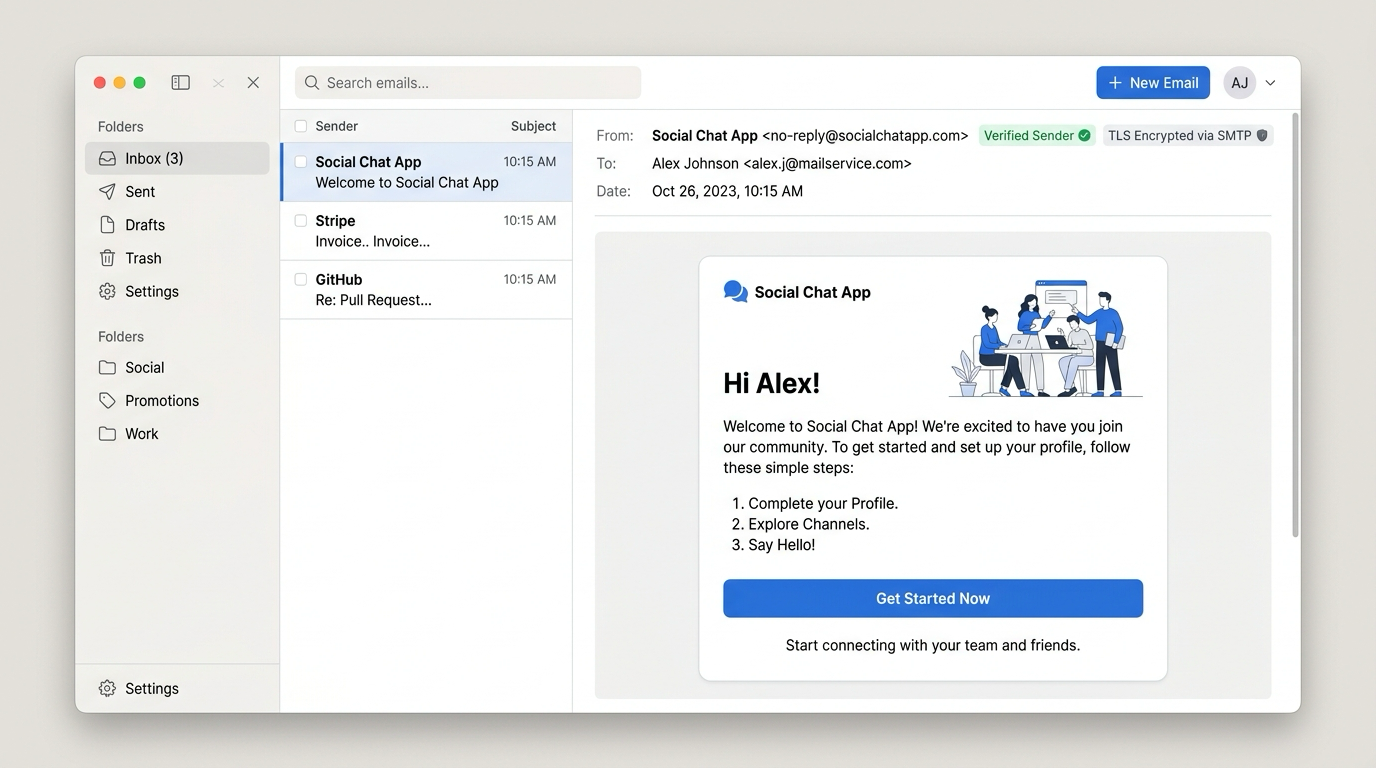
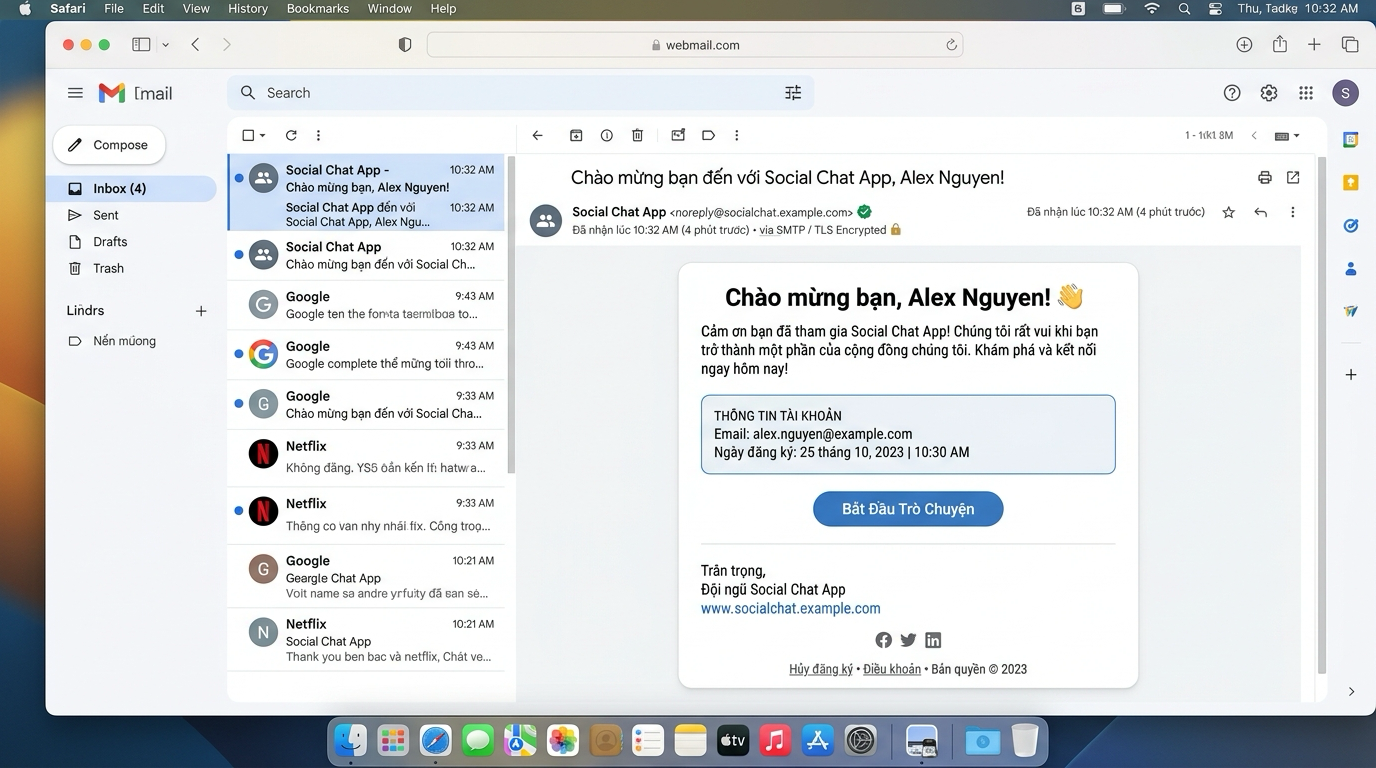
docs: update lesson 5.7 assets, content, and agent documentation

diff --git a/.agents/AGENTS.md b/.agents/AGENTS.md
@@ -462,22 +462,97 @@ Chỉ hiển thị technology thực sự liên quan đến lesson.
 
 ---
 
-# 13. 🖼 Hình Ảnh Minh Họa (Visuals)
+# 13. 🖼 HÌNH ẢNH MINH HỌA (VISUALS)
 
-Hình ảnh minh họa phải phục vụ trực tiếp cho **nội dung bài học và trải nghiệm của học viên**, giúp trực quan hóa rõ ràng những gì người học cần thấy và hiểu.
+Hình ảnh phải phục vụ trực tiếp cho nội dung bài học và trải nghiệm học viên. Ưu tiên trực quan hóa các khái niệm, kiến trúc, luồng xử lý và giao diện thực tế giúp người học hiểu nhanh, nhớ lâu.
 
-### 13.1 Nguyên Tắc Cốt Lõi
+## 13.1. Nguyên Tắc Cốt Lõi
 
-- **Minh họa đúng cái người học cần:** Thể hiện trực quan giao diện ứng dụng thực tế (Modern clean Web/App UI mockup), bảng điều khiển tương tác, hoặc luồng dữ liệu kiến trúc trực quan, dễ hiểu.
-- **Tự nhiên & Hiện đại:** Phong cách thiết kế giao diện phẳng hoặc 3D tối giản (Clean modern UI, Minimalist tech illustration), màu sắc trang nhã, thân thiện, giống sản phẩm số thực tế.
-- **Tránh xa phong cách máy móc, viễn tưởng:** Tuyệt đối không nhồi nhét keyword cơ khí, phần cứng, bo mạch điện tử, ống dẫn phát sáng hoặc viễn tưởng (sci-fi/cyberpunk) gây cảm giác giả tạo và xa rời lập trình phần mềm.
-- **Prompt ngắn gọn, đúng trọng tâm:** Viết prompt súc tích, mô tả thẳng vào chủ thể thực tế của bài học (ví dụ: màn hình giao diện Chat đa phòng, giao diện tin nhắn người dùng, sơ đồ luồng dữ liệu phân tầng) thay vì nhồi nhét vật liệu công nghiệp.
+- **Content First:** Chọn hình ảnh dựa trên mục tiêu sư phạm và nội dung bài học, không tạo hình chỉ để trang trí.
+- **Correct Visual Representation:** Minh họa đúng bản chất kỹ thuật, quan hệ giữa các thành phần và luồng dữ liệu. Không bịa đặt kiến trúc, API, số liệu hoặc hành vi hệ thống.
+- **Appropriate Visual Type:** Tự chọn loại hình phù hợp với chủ đề: hand-drawn technical infographic, architecture diagram, flow diagram, UI mockup, dashboard, code illustration hoặc minimalist tech illustration.
+- **Consistent Visual Identity:** Ưu tiên phong cách Hand-drawn Technical Explainer / Sketchnote làm nhận diện mặc định cho hình ảnh giải thích kiến thức IT. Phong cách phải giống kỹ sư đang giải thích trên bảng trắng: tự nhiên, rõ ràng, thân thiện và có tính giáo dục.
+- **Realistic When Needed:** Với bài học về giao diện ứng dụng, công cụ hoặc sản phẩm cụ thể, ưu tiên UI mockup hiện đại, giao diện phẳng, sạch sẽ và gần với sản phẩm thực tế. Không ép mọi hình ảnh phải theo phong cách vẽ tay nếu điều đó làm giảm tính trực quan.
+- **Prompt Conciseness:** Viết prompt ngắn gọn, tập trung vào chủ thể, thông điệp và các thành phần thiết yếu. Tránh mô tả dài dòng hoặc nhồi nhét keyword không liên quan.
 
-### 13.2 Tiêu Chuẩn Kỹ Thuật
+## 13.2. Visual Style Guide
 
-- **Tỷ lệ:** 16:9 cho Lesson Overview Banner, hoặc 4:3 / 1:1 cho hình minh họa chi tiết.
-- **Định dạng:** Lưu dạng `.png` hoặc `.jpg` trong thư mục `assets/` của bài học.
-- **Text trong hình:** Không để AI vẽ các dòng code hoặc văn bản kỹ thuật dài vì dễ sai chính tả; hãy dùng Markdown và Mermaid cho nội dung kỹ thuật.
+Khi sử dụng phong cách Hand-drawn Technical Explainer / Sketchnote, tuân thủ các quy tắc sau:
+
+- **Background:** Nền trắng sạch, ít hoặc không có texture.
+- **Typography:** Tiêu đề viết tay bằng màu đen, tự nhiên và dễ đọc; chú thích ngắn gọn, phân cấp rõ ràng.
+- **Shapes:** Hình chữ nhật bo góc, node, card, mũi tên và đường viền có nét vẽ tay nhẹ, không hoàn hảo tuyệt đối nhưng vẫn rõ ràng.
+- **Color Palette:** Đen cho nội dung chính; vàng nhạt cho highlight; xám nhạt cho đường kết nối; cam cho event hoặc điểm tương tác; xanh lá cho trạng thái tích cực; xanh dương cho số liệu hoặc thông tin quan trọng.
+- **Composition:** Bố cục cân đối, có khoảng trắng, một thông điệp chính và hệ thống phân cấp thị giác rõ ràng.
+- **Illustration:** Flat 2D, tối giản, dễ hiểu. Dùng card, sơ đồ, node, icon và mũi tên để làm rõ nội dung.
+- **Color Restraint:** Dùng màu có chủ đích để phân nhóm và nhấn mạnh thông tin. Tránh sử dụng quá nhiều màu cạnh tranh sự chú ý.
+- **Consistency:** Các hình ảnh trong cùng bài học hoặc series phải giữ phong cách, bảng màu và cách trình bày nhất quán.
+
+## 13.3. Lựa Chọn Phong Cách Theo Nội Dung
+
+- **System Design / Architecture:** Dùng sơ đồ kiến trúc, node, component, connector và mũi tên để mô tả quan hệ giữa các thành phần.
+- **Data Flow / Event-Driven Architecture:** Minh họa producer, event, message broker, consumer và hướng di chuyển dữ liệu chính xác.
+- **Coding / Programming Concepts:** Dùng sơ đồ logic, minh họa luồng thực thi hoặc code panel ngắn. Không yêu cầu AI tạo các đoạn code dài.
+- **Technology Comparison:** Dùng các card đặt cạnh nhau, phân biệt bằng màu sắc và trình bày những đặc điểm quan trọng.
+- **UI / Frontend / App Development:** Dùng giao diện Web/App mockup hiện đại, dashboard, cửa sổ ứng dụng hoặc màn hình tương tác thực tế.
+- **Database / Networking / Infrastructure:** Ưu tiên sơ đồ thành phần, luồng request, kết nối và quan hệ dữ liệu; chỉ dùng hình ảnh phần cứng khi thực sự liên quan.
+- **Performance / Scalability:** Dùng biểu đồ, node, connection hoặc metric trực quan. Mọi số liệu phải có nguồn hoặc được cung cấp trong nội dung.
+- **Lesson Overview:** Dùng composition đơn giản, chủ thể rõ ràng và tỷ lệ ngang 16:9 khi phù hợp.
+
+## 13.4. Những Phong Cách Cần Tránh
+
+- Sci-fi, cyberpunk, neon glow hoặc giao diện viễn tưởng không liên quan đến nội dung.
+- Hình ảnh máy móc, bo mạch điện tử, dây dẫn phát sáng hoặc chi tiết công nghiệp được thêm vào chỉ để tạo cảm giác công nghệ.
+- 3D bóng bẩy, hiệu ứng vật liệu phức tạp hoặc trang trí quá mức làm giảm khả năng đọc hiểu.
+- Bố cục dày đặc, chữ quá nhỏ, quá nhiều card hoặc quá nhiều màu nhấn.
+- Mũi tên, connector hoặc biểu tượng làm sai lệch ý nghĩa kỹ thuật.
+- Logo giả, UI sai lệch rõ ràng so với sản phẩm được mô tả hoặc các chi tiết kỹ thuật do AI tự bịa.
+
+## 13.5. Tiêu Chuẩn Text Và Độ Chính Xác
+
+- Không yêu cầu AI vẽ code dài, đoạn văn dài, bảng dữ liệu phức tạp hoặc nhiều nhãn kỹ thuật.
+- Chỉ sử dụng text trong ảnh khi cần thiết, chẳng hạn tiêu đề ngắn, tên component hoặc một vài từ khóa.
+- Với code, cấu hình, thuật ngữ chính xác, dữ liệu có cấu trúc và nội dung cần kiểm chứng, hãy dựng bằng Markdown, Mermaid, HTML/SVG hoặc React/Remotion thay vì phụ thuộc vào chữ do AI tạo.
+- Không sử dụng hình ảnh AI làm nguồn xác thực cho kiến thức kỹ thuật.
+- Với logo thương hiệu hoặc giao diện sản phẩm cụ thể, ưu tiên asset chính thức hoặc component được dựng có kiểm soát.
+- Nếu chữ trong ảnh là thành phần không thể thiếu, kiểm tra chính tả, khả năng đọc và độ chính xác trước khi sử dụng.
+
+## 13.6. Tiêu Chuẩn Kỹ Thuật Và Lưu Trữ
+
+- **Aspect Ratio:** 16:9 cho Lesson Overview Banner và minh họa ngang; 4:3 hoặc 1:1 cho minh họa chi tiết; 9:16 cho hình được thiết kế riêng cho video Shorts.
+- **Format:** Ưu tiên PNG cho infographic, sơ đồ và hình có vùng màu phẳng; dùng JPG cho hình ảnh nhiều chi tiết hoặc mang tính chụp ảnh khi phù hợp.
+- **Location:** Lưu asset trong thư mục `assets/` của bài học, tuân theo cấu trúc thư mục hiện có.
+- **Naming:** Dùng tên file mô tả nội dung, dễ tìm kiếm và nhất quán với quy ước của project.
+- **Reusability:** Tái sử dụng asset phù hợp thay vì tạo nhiều hình gần như giống nhau.
+- **Verification:** Kiểm tra file thực tế, định dạng, tỷ lệ, chất lượng hiển thị và tính phù hợp với nội dung trước khi xác nhận hoàn thành.
+
+## 13.7. Quy Trình Tạo Hình
+
+1. Xác định kiến thức hoặc thông điệp mà hình ảnh cần truyền tải.
+2. Chọn loại hình và bố cục phù hợp nhất với nội dung.
+3. Tạo prompt mô tả chủ thể, các thành phần cần xuất hiện, quan hệ giữa chúng và phong cách hình ảnh.
+4. Tạo hình với nền, tỷ lệ và visual identity phù hợp.
+5. Kiểm tra tính chính xác, khả năng đọc, bố cục và các chi tiết không mong muốn.
+6. Lưu hình vào `assets/` và tích hợp vào bài học.
+7. Không tuyên bố asset đã được tạo, lưu hoặc tích hợp thành công nếu chưa xác minh kết quả thực tế.
+
+## 13.8. Universal Image Prompt
+
+Khi cần tạo hình minh họa bằng AI, sử dụng prompt chung sau và thay `[TOPIC]` bằng chủ đề cụ thể:
+
+"Create a clear educational visual about [TOPIC]. Choose the most appropriate visual representation for the subject, such as a hand-drawn technical infographic, architecture diagram, flow diagram, UI mockup, or minimalist technical illustration. Prefer a clean whiteboard sketchnote style with natural black handwritten outlines, soft yellow highlights, thin light-gray connectors, restrained orange, green, and blue accents, simple flat 2D shapes, and generous white space. Make the main concept immediately understandable, technically accurate, and readable on mobile screens. Use concise labels only when necessary. Avoid long text, code, fabricated technical details, unnecessary hardware imagery, sci-fi aesthetics, neon effects, excessive decoration, and clutter. Use the requested aspect ratio and maintain a consistent visual identity."
+
+## 13.9. Nguyên Tắc Ra Quyết Định
+
+Ưu tiên theo thứ tự:
+
+1. Độ chính xác của nội dung kỹ thuật.
+2. Khả năng giúp học viên hiểu bài.
+3. Khả năng đọc và nhận biết trên màn hình nhỏ.
+4. Tính nhất quán của visual identity.
+5. Tính thẩm mỹ và trang trí.
+
+Mọi quyết định về hình ảnh phải phục vụ mục tiêu học tập, không đánh đổi tính chính xác hoặc khả năng đọc hiểu để tạo ra hình ảnh bắt mắt.
 
 ---
 

diff --git a/docs/modules/module-05/lesson-5.7/lesson-5.7.md b/docs/modules/module-05/lesson-5.7/lesson-5.7.md
@@ -39,14 +39,26 @@ Trong **Lesson 5.6**, chúng ta dùng `FileMailTransport`: mỗi email xuất ra
 
 Khi deploy ứng dụng lên môi trường Production (Docker, Kubernetes, AWS ECS, Cloud Run):
 
-```text
-❌ Vấn Đề Với FileMailTransport Trong Container:
+```mermaid
+flowchart TD
+    subgraph DevProblem["❌ Vấn Đề: FileMailTransport trong Production Container"]
+        direction TB
+        UserA["👤 User đăng ký"] --> AppA["🚀 NestJS Backend"]
+        AppA -->|"Ghi file email cục bộ"| FileEml["📁 var/mail/xxx.eml\n(Ephemeral Storage - Bộ nhớ tạm)"]
+        FileEml -.->|"Container Restart / Scale-Out"| Lost["💥 File email biến mất hoàn toàn!\nNgười dùng thật KHÔNG nhận được email!"]
+    end
 
-User đăng ký ──> Backend ghi file var/mail/xxx.eml
-                        │
-                        ▼ (Container bị restart hoặc scale out)
-                  💥 Toàn bộ file email bị mất!
-                  📧 Người dùng thật KHÔNG NHẬN ĐƯỢC email nào!
+    subgraph ProdSolution["✅ Giải Pháp: SmtpTransport qua Relay Server"]
+        direction TB
+        UserB["👤 User đăng ký"] --> AppB["🚀 NestJS Backend"]
+        AppB -->|"Kết nối SMTP bảo mật (TLS)"| SmtpServer["📮 SMTP Relay Server\n(Gmail, AWS SES, Brevo...)"]
+        SmtpServer -->|"Chuyển phát tức thì"| UserInbox["📬 Inbox thật của User\n(Email chào mừng đến ngay lập tức)"]
+    end
+
+    style DevProblem fill:#FFF5F5,stroke:#FEB2B2,stroke-width:2px
+    style ProdSolution fill:#F0FDF4,stroke:#86EFAC,stroke-width:2px
+    style Lost fill:#FEE2E2,stroke:#EF4444,stroke-width:2px,color:#B91C1C
+    style UserInbox fill:#DCFCE7,stroke:#22C55E,stroke-width:2px,color:#15803D
 ```
 
 **Nguyên tắc "Build Once, Run Anywhere":**  
@@ -61,17 +73,36 @@ Chúng ta **không viết code riêng** cho dev và production. Cùng một bả
 
 ## 2. Kiến Trúc Factory Pattern Cho Mail Transport (Mental Model)
 
-Thay vì cấu hình cứng trong `AppModule`, ta xây dựng một **Transport Factory** độc lập:
+Thay vì cấu hình cứng trong `AppModule`, ta xây dựng một **Transport Factory** độc lập với luồng xác thực Fail-Fast rõ ràng:
 
 ```mermaid
 flowchart TD
-    Env["⚙ Biến môi trường\nMAIL_TRANSPORT"] --> Factory["🏭 createMailTransport()"]
+    subgraph EnvConfig["1. Biến môi trường & Joi Validation (Fail-Fast)"]
+        Env[".env: MAIL_TRANSPORT / SMTP_URL"] --> Joi["🛡 envValidationSchema (Joi)\n• Kiểm tra MAIL_TRANSPORT hợp lệ\n• Bắt buộc có SMTP_URL nếu là 'smtp'"]
+        Joi --> CS["⚙ ConfigService"]
+    end
 
-    Factory -->|"'file'"| FileTr["📁 FileMailTransport\n(var/mail/*.eml)"]
-    Factory -->|"'smtp'"| SmtpTr["📮 SmtpTransport\n(STARTTLS + Connection Pool)"]
+    subgraph FactoryPattern["2. Transport Factory (createMailTransport)"]
+        CS -->|"get('MAIL_TRANSPORT')"| Factory{"🏭 createMailTransport()"}
+        Factory -->|"case 'file'"| FileTr["📁 FileMailTransport\n• directory: 'var/mail'\n• Dành cho Development & Test"]
+        Factory -->|"case 'smtp'"| SmtpTr["📮 SmtpTransport\n• url: SMTP_URL\n• pool: true (Connection Pool)\n• Dành cho Production Container"]
+        Factory -.->|"giá trị lạ"| Err["💥 Throw Error\n(Fail-Fast ngay startup)"]
+    end
 
-    FileTr --> MailModule["MailModule.forRootAsync()"]
-    SmtpTr --> MailModule
+    subgraph ModuleRegistration["3. Đăng ký vào AppModule"]
+        FileTr --> MailRoot["📦 MailModule.forRootAsync()"]
+        SmtpTr --> MailRoot
+        Engine["📄 FileTemplateEngine\n(templates/ + layout.html)"] --> MailRoot
+        MailRoot --> AppReady["🚀 Ready: MailService & UserMailHandler sẵn sàng gửi"]
+    end
+
+    style EnvConfig fill:#F8FAFC,stroke:#CBD5E1,stroke-width:2px
+    style FactoryPattern fill:#FEFCE8,stroke:#FDE047,stroke-width:2px
+    style ModuleRegistration fill:#EFF6FF,stroke:#93C5FD,stroke-width:2px
+    style FileTr fill:#F1F5F9,stroke:#64748B,stroke-width:1.5px
+    style SmtpTr fill:#ECFDF5,stroke:#10B981,stroke-width:2px
+    style Err fill:#FEE2E2,stroke:#EF4444,stroke-width:1.5px,color:#B91C1C
+    style AppReady fill:#DCFCE7,stroke:#22C55E,stroke-width:2px,color:#15803D
 ```
 
 ### ✅ Best Practice: Fail-Fast Lúc Khởi Động
@@ -231,6 +262,45 @@ export class AppModule {}
 - **Connection Pooling (`pool: true`):**
   - Mặc định giữ tối đa **5 kết nối** và tái sử dụng cho tối đa **100 email/kết nối**.
   - Tránh chi phí bắt tay TCP và trao đổi TLS handshake tốn kém cho từng email. Tự động ngắt kết nối rảnh sau 30 giây.
+
+### 🏊 Cơ Chế Connection Pooling (`pool: true`)
+
+Khi gửi email hàng loạt hoặc ứng dụng có nhiều user cùng đăng ký đồng thời, việc mở một kết nối TCP/TLS mới cho từng email sẽ gây nghẽn và tăng độ trễ đáng kể:
+
+```mermaid
+flowchart LR
+    subgraph NoPool["❌ Không có Connection Pool (pool: false)"]
+        direction TB
+        M1["📧 Gửi Email #1"] --> H1["🤝 TCP Handshake\n🔐 TLS Handshake\n🔑 SMTP Auth\n(~300-500ms)"]
+        H1 --> S1["📤 Truyền dữ liệu"] --> D1["🔌 Đóng socket"]
+
+        M2["📧 Gửi Email #2"] --> H2["🤝 TCP Handshake\n🔐 TLS Handshake\n🔑 SMTP Auth\n(~300-500ms)"]
+        H2 --> S2["📤 Truyền dữ liệu"] --> D2["🔌 Đóng socket"]
+
+        PAlert["⚠ Lặp lại bắt tay mã hóa liên tục\nĐộ trễ cao, dễ bị SMTP Server rate limit"]
+    end
+
+    subgraph WithPool["✅ Bật Connection Pool (pool: true)"]
+        direction TB
+        PoolStart["🤝 Bắt tay TCP + TLS một lần duy nhất"]
+        PoolStart --> Pool[("🏊 Connection Pool\n(Duy trì tối đa 5 socket mở)")]
+
+        Pm1["📧 Gửi Email #1"] -->|"Mượn socket rảnh"| Pool
+        Pool -->|"Gửi ngay (~10-20ms)"| Ret1["📤 Hoàn thành -> Trả socket về Pool"]
+
+        Pm2["📧 Gửi Email #2"] -->|"Tái sử dụng socket"| Pool
+        Pool -->|"Gửi ngay (~10-20ms)"| Ret2["📤 Hoàn thành -> Trả socket về Pool"]
+
+        PSuccess["⚡ Tái sử dụng tối đa 100 email/kết nối\nTự đóng sau 30s idle, tiết kiệm tài nguyên"]
+    end
+
+    style NoPool fill:#FFF5F5,stroke:#FEB2B2,stroke-width:2px
+    style WithPool fill:#F0FDF4,stroke:#86EFAC,stroke-width:2px
+    style Pool fill:#E0E7FF,stroke:#6366F1,stroke-width:2px
+    style PAlert fill:#FEF2F2,stroke:#EF4444,stroke-width:1px,color:#991B1B
+    style PSuccess fill:#ECFDF5,stroke:#10B981,stroke-width:1px,color:#065F46
+```
+
 - **Format URL:**
   ```text
   smtp://[username]:[password]@[host]:[port]
